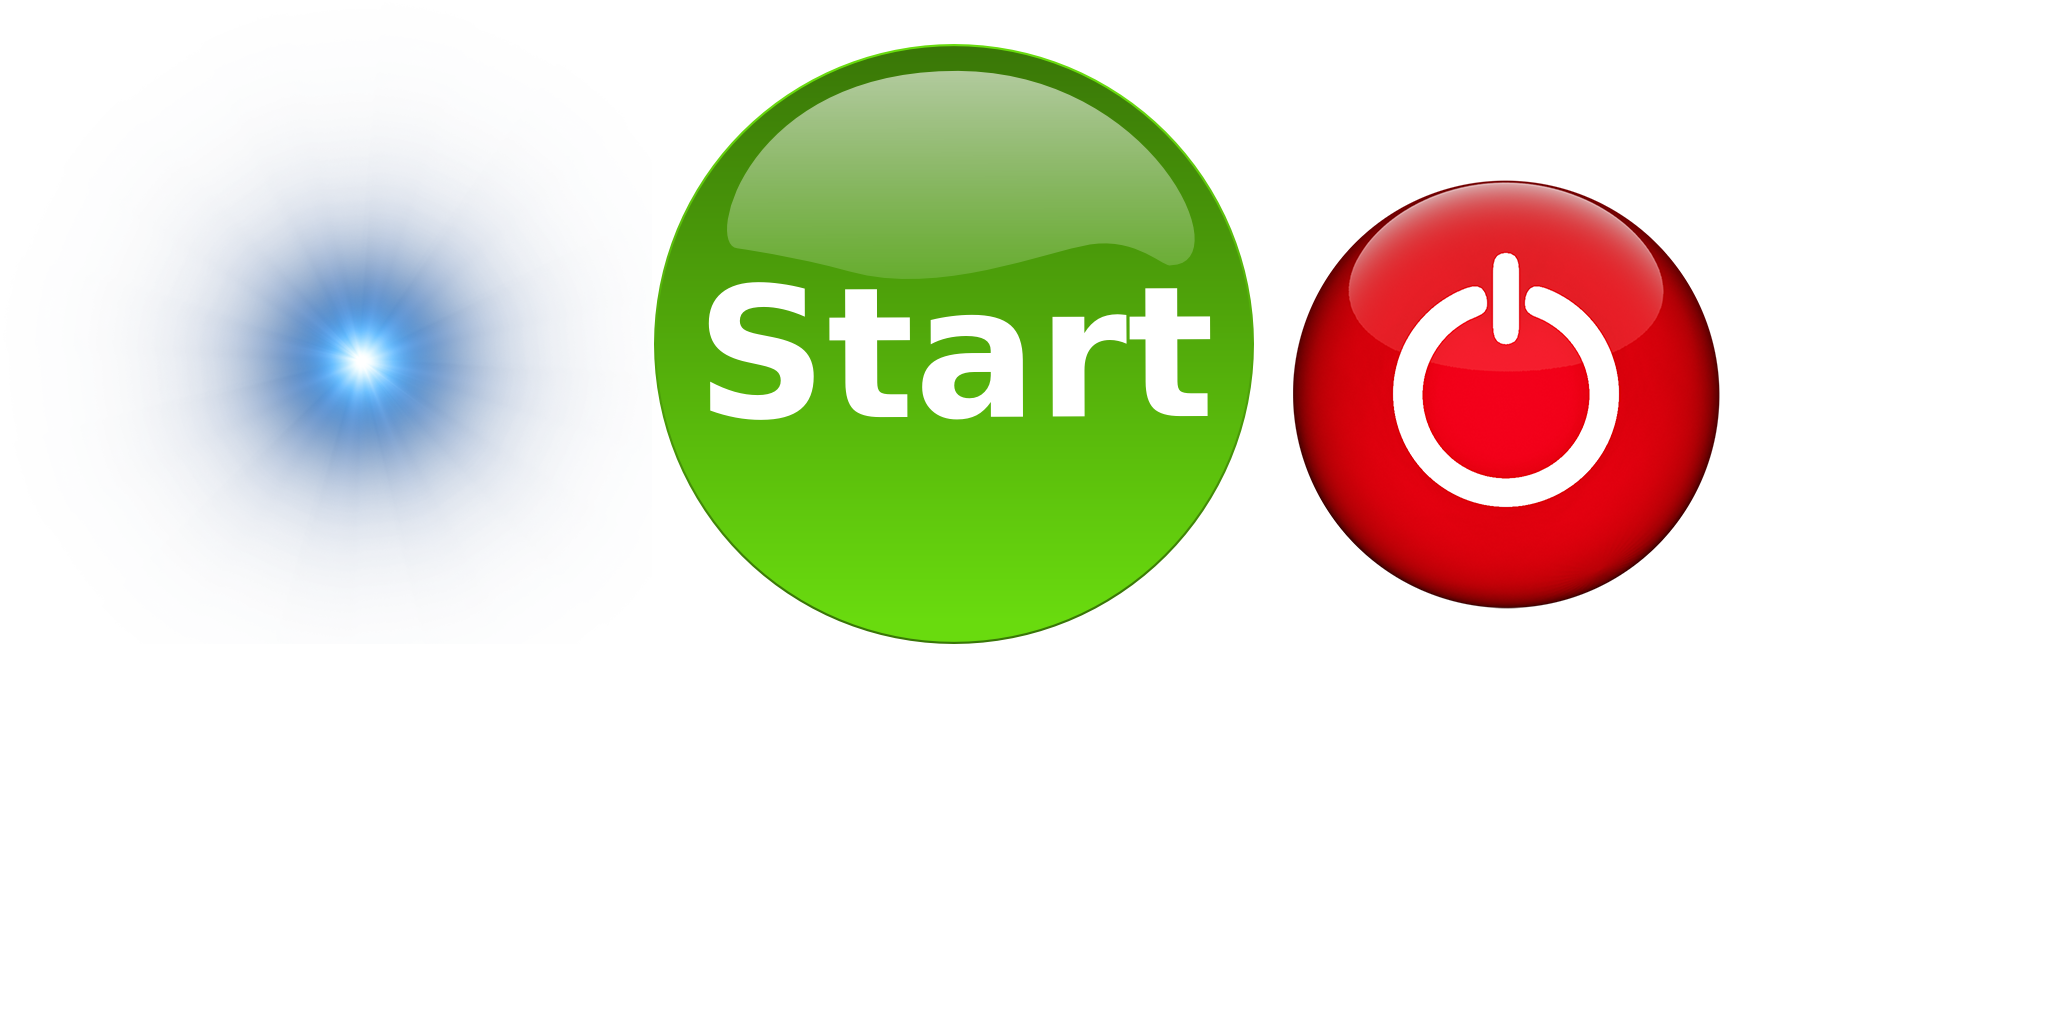
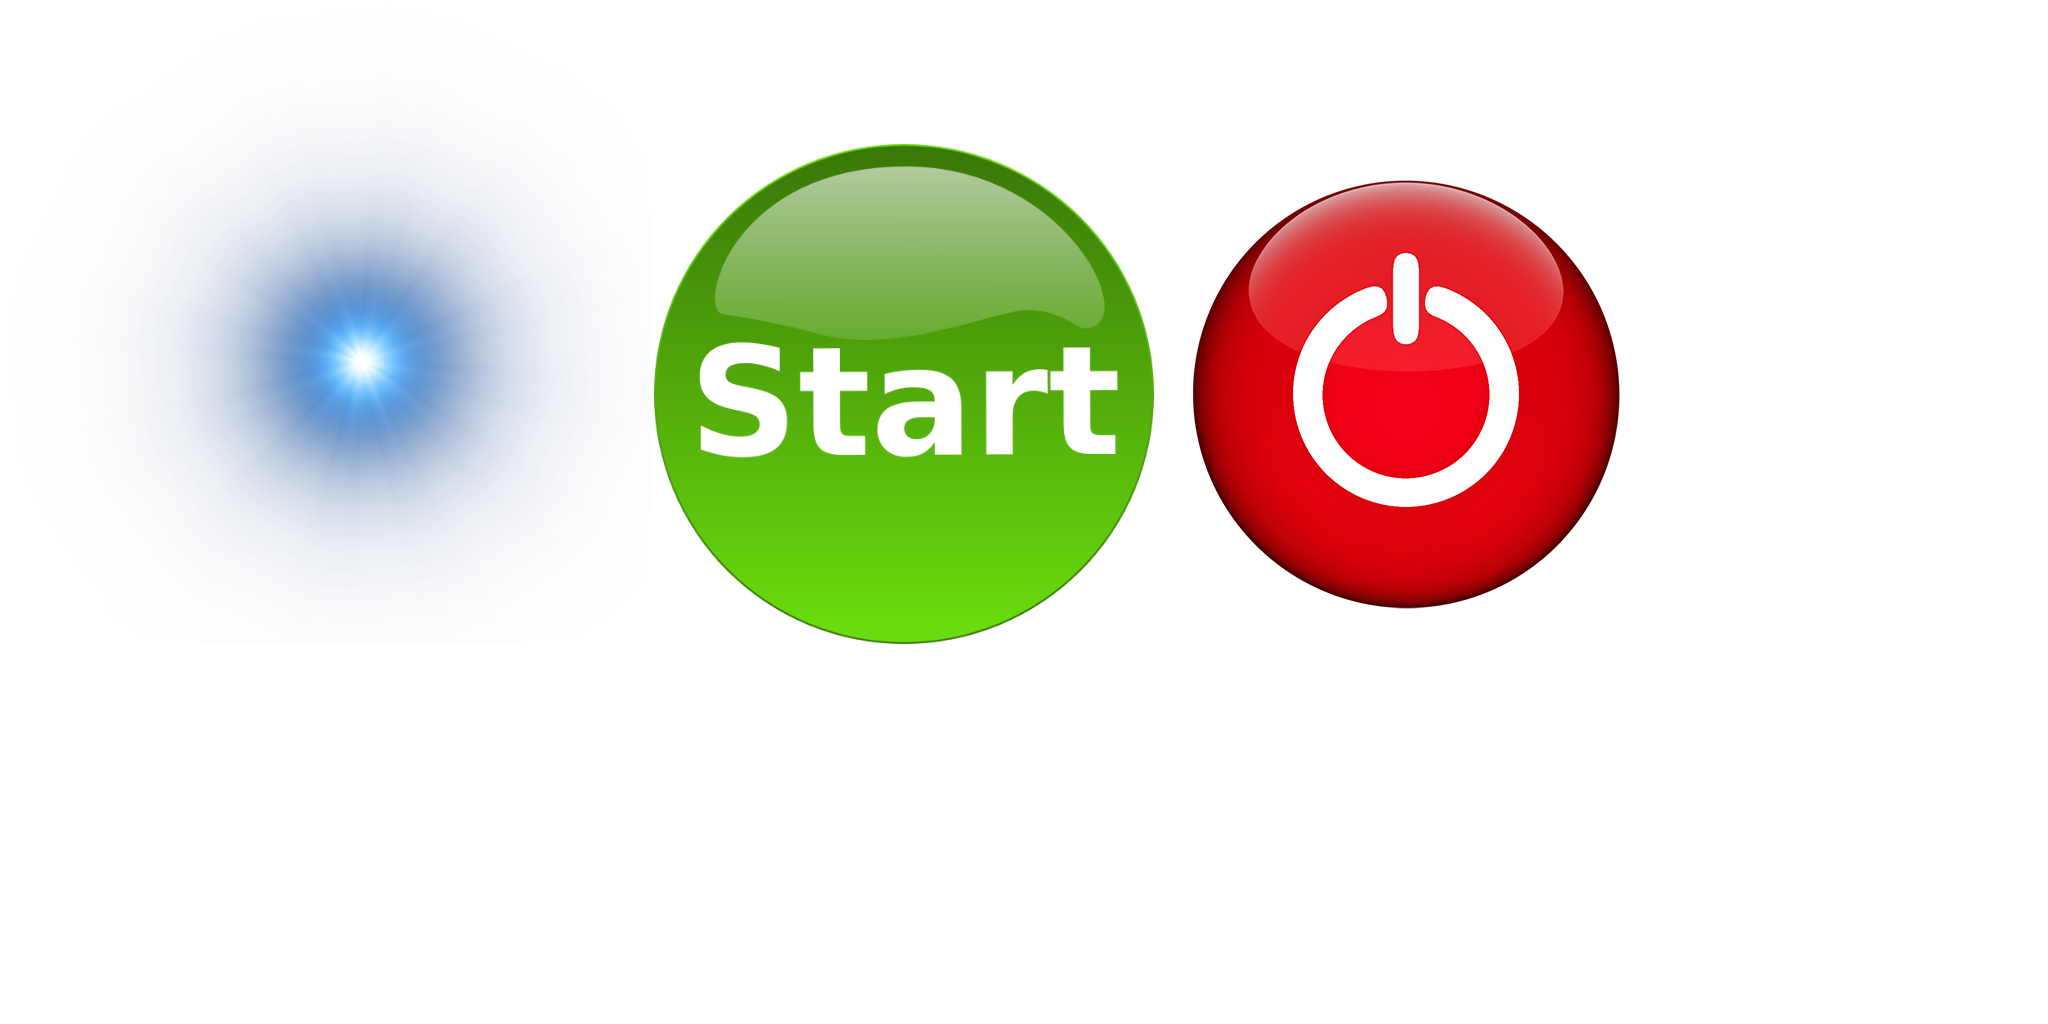
lesson 4

Changed region(s): [[0.3125, 0.0312, 0.8438, 0.625], [0.4375, 0.625, 0.4688, 0.6562]]

diff --git a/core/src/com/stargame/screen/MenuScreen.java b/core/src/com/stargame/screen/MenuScreen.java
@@ -1,5 +1,6 @@
 package com.stargame.screen;
 
+import com.badlogic.gdx.Game;
 import com.badlogic.gdx.graphics.Texture;
 import com.badlogic.gdx.graphics.g2d.TextureAtlas;
 import com.badlogic.gdx.math.Vector2;
@@ -7,27 +8,40 @@ import com.badlogic.gdx.utils.ScreenUtils;
 import com.stargame.base.BaseScreen;
 import com.stargame.math.Rect;
 import com.stargame.sprite.Background;
+import com.stargame.sprite.ExitButton;
+import com.stargame.sprite.PlayButton;
 import com.stargame.sprite.Star;
 
 public class MenuScreen extends BaseScreen {
 
     private static final int STAR_COUNT = 256;
 
+    private final Game game;
+
     private Texture bg;
     private TextureAtlas menuAtlas;
+
     private Background background;
     private Star[] stars;
+    private ExitButton exitButton;
+    private PlayButton playButton;
+
+    public MenuScreen(Game game) {
+        this.game = game;
+    }
 
     @Override
     public void show() {
         super.show();
-        bg = new Texture("space.png");
-        background = new Background(bg);
-        menuAtlas = new TextureAtlas("menuAtlas.atlas");
-        stars = new Star[STAR_COUNT];
-        for (int i = 0; i < stars.length; i++) {
-            stars[i] = new Star(menuAtlas);
-        }
+            bg = new Texture("space.png");
+            background = new Background(bg);
+            menuAtlas = new TextureAtlas("menuAtlas.atlas");
+            stars = new Star[STAR_COUNT];
+            for (int i = 0; i < stars.length; i++) {
+                stars[i] = new Star(menuAtlas);
+            }
+        exitButton = new ExitButton(menuAtlas);
+        playButton = new PlayButton(menuAtlas, game);
     }
 
     @Override
@@ -37,6 +51,8 @@ public class MenuScreen extends BaseScreen {
         for (Star star : stars) {
             star.resize(worldBounds);
         }
+        exitButton.resize(worldBounds);
+        playButton.resize(worldBounds);
     }
 
     @Override
@@ -55,6 +71,15 @@ public class MenuScreen extends BaseScreen {
 
     @Override
     public boolean touchDown(Vector2 touch, int pointer, int button) {
+        exitButton.touchDown(touch, pointer, button);
+        playButton.touchDown(touch, pointer, button);
+        return false;
+    }
+
+    @Override
+    public boolean touchUp(Vector2 touch, int pointer, int button) {
+        exitButton.touchUp(touch, pointer, button);
+        playButton.touchUp(touch, pointer, button);
         return false;
     }
 
@@ -71,6 +96,8 @@ public class MenuScreen extends BaseScreen {
         for (Star star : stars) {
             star.draw(batch);
         }
+        exitButton.draw(batch);
+        playButton.draw(batch);
         batch.end();
     }
 }

diff --git a/core/src/com/stargame/screen/GameScreen.java b/core/src/com/stargame/screen/GameScreen.java
@@ -1,6 +1,71 @@
 package com.stargame.screen;
 
+import com.badlogic.gdx.graphics.Texture;
+import com.badlogic.gdx.graphics.g2d.TextureAtlas;
+import com.badlogic.gdx.utils.ScreenUtils;
 import com.stargame.base.BaseScreen;
+import com.stargame.math.Rect;
+import com.stargame.sprite.Background;
+import com.stargame.sprite.Star;
 
 public class GameScreen extends BaseScreen {
+
+    private static final int STAR_COUNT = 64;
+
+    private Texture bg;
+    private TextureAtlas menuAtlas;
+
+    private Background background;
+    private Star[] stars;
+
+    @Override
+    public void show() {
+        super.show();
+        bg = new Texture("space.png");
+        background = new Background(bg);
+        menuAtlas = new TextureAtlas("menuAtlas.atlas"); //TODO: add mainAtlas
+        stars = new Star[STAR_COUNT];
+        for (int i = 0; i < stars.length; i++) {
+            stars[i] = new Star(menuAtlas);
+        }
+    }
+
+    @Override
+    public void render(float delta) {
+        super.render(delta);
+        update(delta);
+        draw();
+    }
+
+    @Override
+    public void resize(Rect worldBounds) {
+        super.resize(worldBounds);
+        background.resize(worldBounds);
+        for (Star star : stars) {
+            star.resize(worldBounds);
+        }
+    }
+
+    @Override
+    public void dispose() {
+        super.dispose();
+        bg.dispose();
+        menuAtlas.dispose();
+    }
+
+    private void update(float delta) {
+        for (Star star : stars) {
+            star.update(delta);
+        }
+    }
+
+    private void draw() {
+        ScreenUtils.clear(0.33f, 0.45f, 0.68f, 1);
+        batch.begin();
+        background.draw(batch);
+        for (Star star : stars) {
+            star.draw(batch);
+        }
+        batch.end();
+    }
 }

diff --git a/core/src/com/stargame/base/ScaledButton.java b/core/src/com/stargame/base/ScaledButton.java
@@ -1,0 +1,43 @@
+package com.stargame.base;
+
+import com.badlogic.gdx.graphics.g2d.TextureRegion;
+import com.badlogic.gdx.math.Vector2;
+
+public abstract class ScaledButton extends Sprite {
+
+    private static final float SCALE = 0.8f;
+
+    private boolean pressed;
+    private int pointer;
+
+    public ScaledButton(TextureRegion region) {
+        super(region);
+    }
+
+    @Override
+    public boolean touchDown(Vector2 touch, int pointer, int button) {
+        if (pressed || !isMe(touch)) {
+            return false;
+        }
+        this.pointer = pointer;
+        this.scale = SCALE;
+        pressed = true;
+        return false;
+    }
+
+    @Override
+    public boolean touchUp(Vector2 touch, int pointer, int button) {
+        if (this.pointer != pointer || !pressed) {
+            return false;
+        }
+        if (isMe(touch)) {
+            action();
+        }
+        pressed = false;
+        scale = 1f;
+        return false;
+    }
+
+    protected abstract void action();
+
+}

diff --git a/core/src/com/stargame/sprite/PlayButton.java b/core/src/com/stargame/sprite/PlayButton.java
@@ -1,0 +1,33 @@
+package com.stargame.sprite;
+
+import com.badlogic.gdx.Game;
+import com.badlogic.gdx.graphics.g2d.TextureAtlas;
+import com.stargame.base.ScaledButton;
+import com.stargame.math.Rect;
+import com.stargame.screen.GameScreen;
+
+public class PlayButton extends ScaledButton {
+
+    private static final float HEIGHT = 0.165f;
+    private static final float PADDING = 0.045f;
+
+    private final Game game;
+
+    public PlayButton(TextureAtlas atlas, Game game) {
+        super(atlas.findRegion("start"));
+        this.game = game;
+    }
+
+    @Override
+    public void resize(Rect worldBounds) {
+        super.resize(worldBounds);
+        setHeightProportion(HEIGHT);
+        setBottom(worldBounds.getBottom() + PADDING);
+        setLeft(worldBounds.getLeft() + PADDING);
+    }
+
+    @Override
+    protected void action() {
+        game.setScreen(new GameScreen());
+    }
+}

diff --git a/core/src/com/stargame/sprite/ExitButton.java b/core/src/com/stargame/sprite/ExitButton.java
@@ -1,0 +1,29 @@
+package com.stargame.sprite;
+
+import com.badlogic.gdx.Gdx;
+import com.badlogic.gdx.graphics.g2d.TextureAtlas;
+import com.stargame.base.ScaledButton;
+import com.stargame.math.Rect;
+
+public class ExitButton extends ScaledButton {
+
+    private static final float HEIGHT = 0.2f;
+    private static final float PADDING = 0.03f;
+
+    public ExitButton(TextureAtlas atlas) {
+        super(atlas.findRegion("exit"));
+    }
+
+    @Override
+    protected void action() {
+        Gdx.app.exit();
+    }
+
+    @Override
+    public void resize(Rect worldBounds) {
+        super.resize(worldBounds);
+        setHeightProportion(HEIGHT);
+        setBottom(worldBounds.getBottom() + PADDING);
+        setRight(worldBounds.getRight() - PADDING);
+    }
+}

diff --git a/core/src/com/stargame/sprite/Star.java b/core/src/com/stargame/sprite/Star.java
@@ -50,9 +50,7 @@ public class Star extends Sprite {
         height += 0.0001f;
         if (height >= 0.012f) {
             height = 0.008f;
-            setHeightProportion(height);
-        } else {
-            setHeightProportion(height);
         }
+        setHeightProportion(height);
     }
 }

diff --git a/core/src/com/stargame/StarGame.java b/core/src/com/stargame/StarGame.java
@@ -7,6 +7,6 @@ public class StarGame extends Game {
 
     @Override
     public void create() {
-        setScreen(new MenuScreen());
+        setScreen(new MenuScreen(this));
     }
 }
